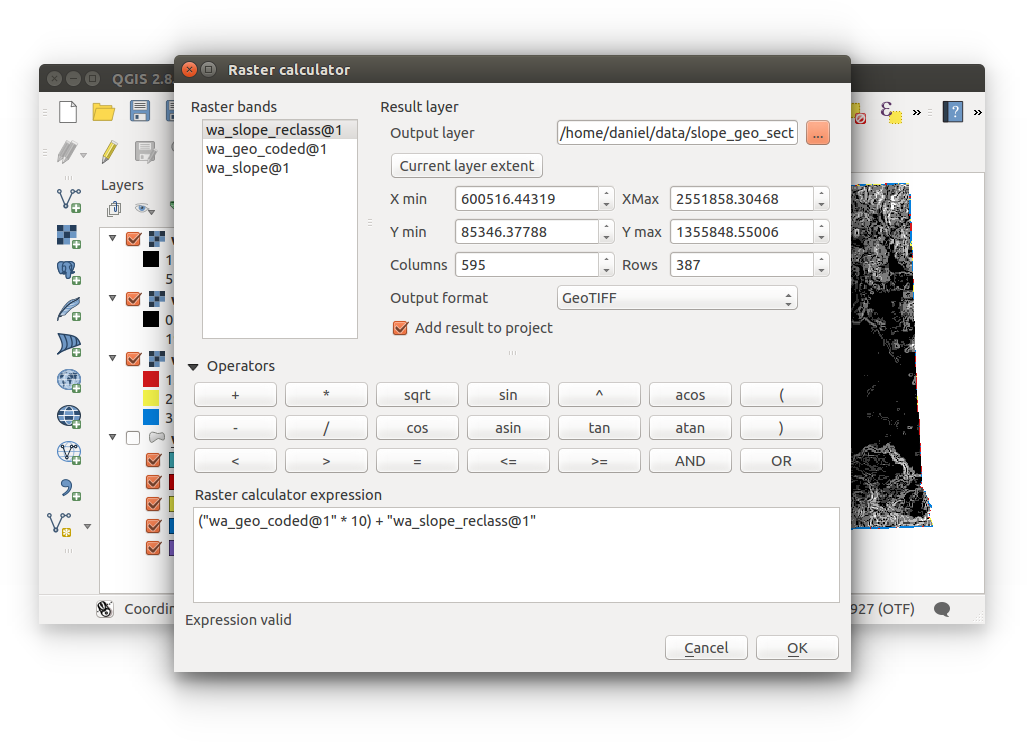
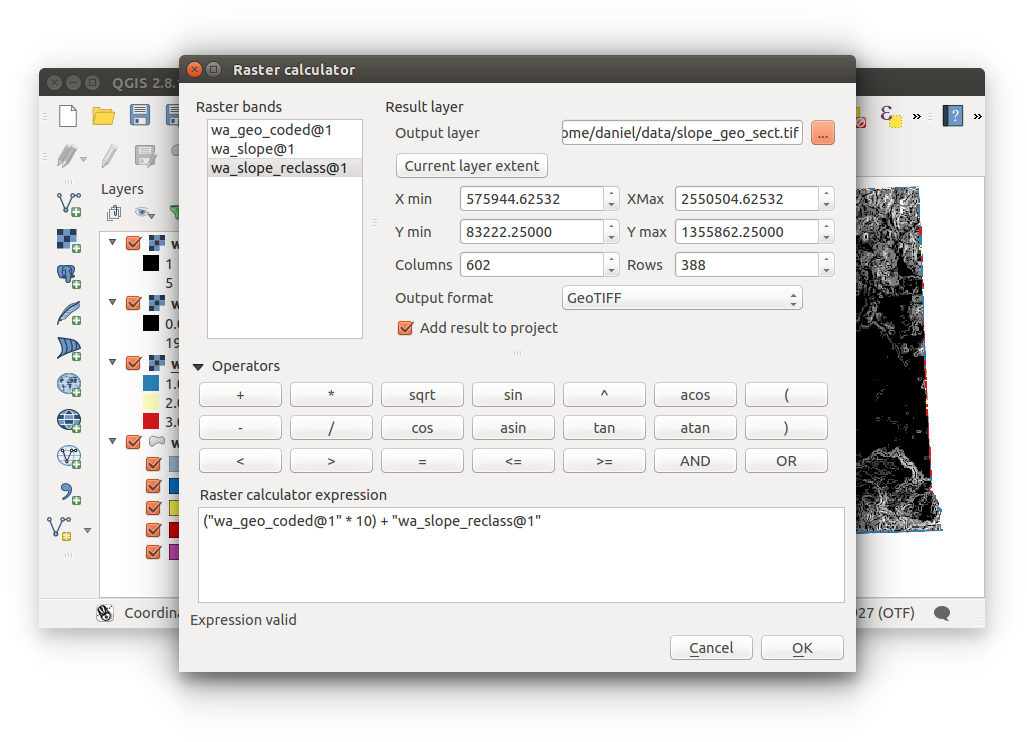
updated landslide exercise

diff --git a/_posts/2003-01-01-case-study.md b/_posts/2003-01-01-case-study.md
@@ -17,9 +17,9 @@ tags : [case study, landslide]
 
 #### Objectives:
 
-- one
-- two
-- three
+- Prep data for a spatial analysis
+- Perform a spatial analysis utilizing both vector and raster data
+- Visualize results from the spatial analysis
 
 #### Exercise: Landslide Susceptibility Model
 
@@ -205,9 +205,9 @@ This case study has been chosen to demonstrate the concepts being highlighted by
        <code>
       
       case<br>
-      &nbsp;&nbsp;&nbsp;&nbsp;when "rock_type" = 'soft' then 1<br>
+      &nbsp;&nbsp;&nbsp;&nbsp;when "rock_type" = 'soft' then 3<br>
       &nbsp;&nbsp;&nbsp;&nbsp;when "rock_type" = 'medium' then 2<br>
-      &nbsp;&nbsp;&nbsp;&nbsp;when "rock_type" = 'hard' then 3<br>
+      &nbsp;&nbsp;&nbsp;&nbsp;when "rock_type" = 'hard' then 1<br>
       else 0<br>
       end
      </code><br><br>
@@ -231,12 +231,12 @@ This case study has been chosen to demonstrate the concepts being highlighted by
 </ol>
 <h4>5. Rasterize the rock strength layer</h4>
 <p>To be able to perform the landslide susceptibility model we must intersect rock strength with slope (derrived from a DEM). So the best (highly suggested) method is converting our geology shapefile into a raster. A simple process thanks to <a href="http://www.gdal.org/gdal_rasterize.html" target="_blank">GDAL_rasterize</a>.</p>
-  <p><a href="http://www.gdal.org/gdal_rasterize.html" target="_blank">GDAL_rasterize</a> can be accessed through <em>Menu Bar > Raster > Conversion > Rasterize (Vector to raster)</em>. Notice how the parameters have been diabled in the example below. There's a specific reason for this. Complete the parameter inputs: <em>Define your output file and location (in working directory); Attribute field = strength; Raster size in pixels = 1000 x 1000</em>. Because GDAL is more powerful in the commandline, there are certain parameters that cannot be set within QGIS.</p>
+  <p>Because GDAL is more powerful in the commandline, there are certain parameters that cannot be set within QGIS.</p>
 <ol>
 <li>Open <strong>gdal_rasterize</strong>: <em>Menu Bar > Raster > Conversion > Rasterize (Vector to raster)</em></li>
 <li>Configure inputs as follows:<br>
 Input file: <strong>wa_geology</strong><br>
-Attribute filed: <strong>strength</strong><br>
+Attribute filed: <strong>strength</strong> (strength value assigned to pixels)<br>
 Output file for rasterized vectors (raster): <strong>wa_geo_coded</strong><br>
 <span style="padding-left:20px;"><em>"The output file doesn't exist. You must set up the output size or resolution to create it:"</em> <strong>OK</strong></span><br>
 Raster size in pixels: <strong>3280 x 3280</strong> (1km resolution)<br>
@@ -286,7 +286,7 @@ iRods access: &nbsp;&nbsp;&nbsp;<code>/iplant/home/shared/aegis/Spatial-bootcamp
 <p>The r.reclass tool reads text files which define the classification rules (rule files). We must prepare a text file with the following contents using a <strong>text editor</strong> not Microsoft Word</p>
 
 <b><em>Create slope-rule.txt:</em></b>
-
+<p>Copy and paste the code below into a new file and save it as <b>slope-rule.txt</b></p>
 <p><code>
 0 thru 2.99 = 1<br>
 3 thru 4.99 = 2<br>
@@ -402,7 +402,7 @@ Open the <b>Raster Calculator</b>: <em>Menu Bar > Raster > Raster Calculator</em
 <p>Our raster calculator expression will be: </p>
 
 <p><code>
-("geo_coded@1" * 10) + "slope-reclass@1"
+("wa_geo_coded@1" * 10) + "wa_slope_reclass@1"
 </code></p>
 
 <p>Output layer: <b>slope_geo_sect.tif</b></p>
@@ -455,9 +455,23 @@ Output raster layer: <b>wa_landslide_suscept.tif</b>
 </li>
 <li>
 <p>Our final product of landslide susceptibility within the entire state of Washington.</p>
+<p>Style <b>wa_landslide_suscept</b>:<br><br>
+Download style rules here: <a href="http://de.iplantcollaborative.org/dl/d/DB7A3C67-24F6-4E78-A332-5342BD87B5F2/wa_landslide_suscept.txt">wa_landslide_suscept.txt</a>
+</p>
+<p>Open <b>wa_landslide_suscept</b> (layer not text file) style properties and import the <b>wa_landslide_suscept.txt style rules:<br>
+<ol>
+<li>Switch the Render Type to <b>Singleband pseudocolor</b></li>
+<li>Import the <b>wa_landslide_suscept.txt</b> style rule file <img src="{{BASE_PATH}}{{ASSET_PATH}}/images/open-style.png"/><br><br>
+Your categories should look like the same as below:<br><br>
+<img data-featherlight="{{BASE_PATH}}{{ASSET_PATH}}/images/landslide-19.png" src="{{BASE_PATH}}{{ASSET_PATH}}/images/landslide-19.png" alt="Spatial Data Bootcamp"/>
+
+</p>
+<p>The final map:<br><br>
+<img data-featherlight="{{BASE_PATH}}{{ASSET_PATH}}/images/landslide-20.png" src="{{BASE_PATH}}{{ASSET_PATH}}/images/landslide-20.png" alt="Spatial Data Bootcamp"/>
+</p>
 </li>
 </ol>
-
+<p>We have just located areas susceptible to landslides within the state of Washginton!</p>
 <hr>
 <br>
 References:
